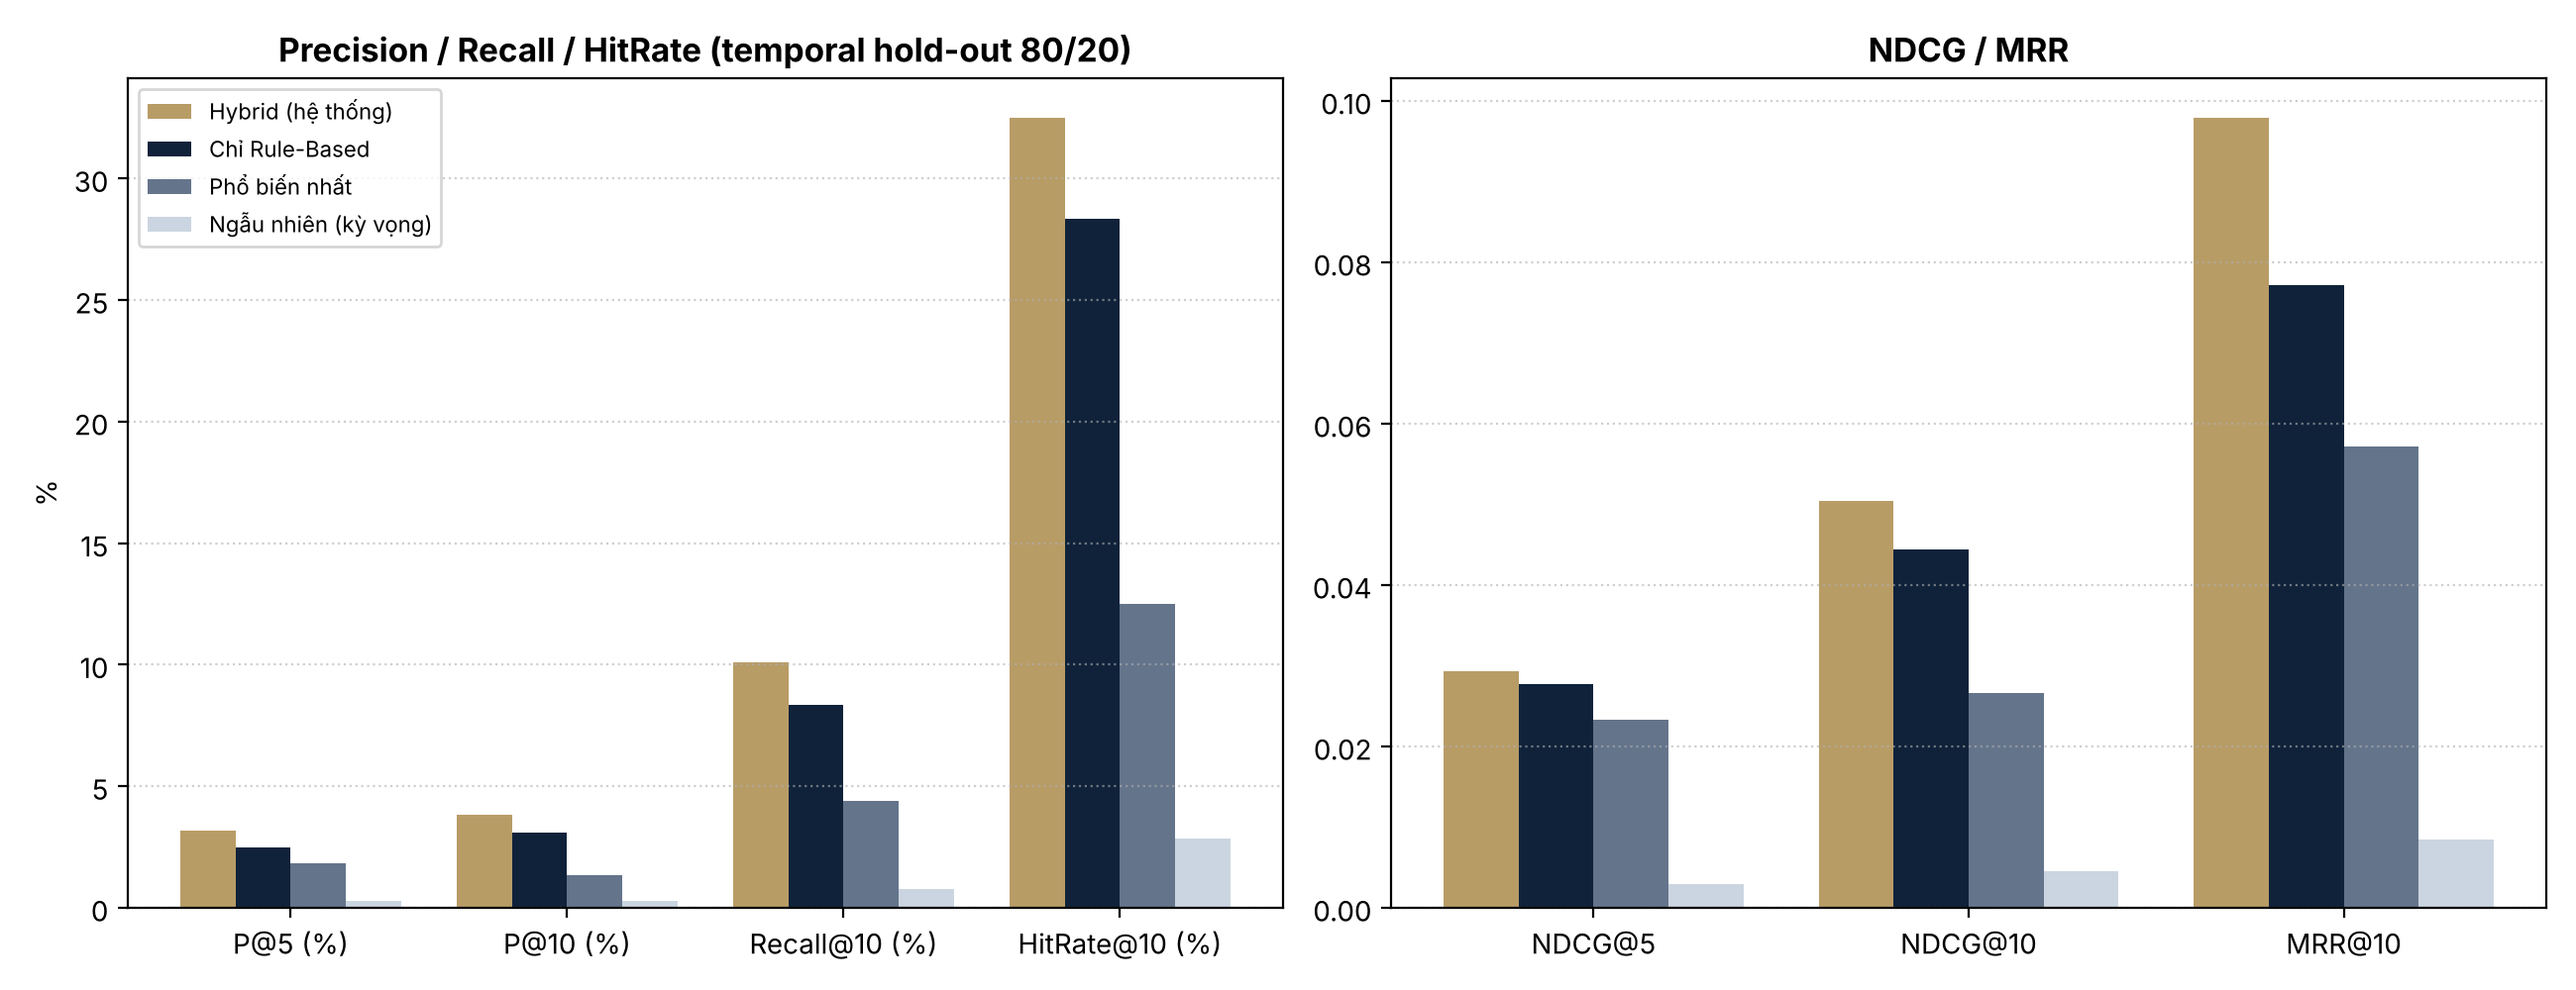
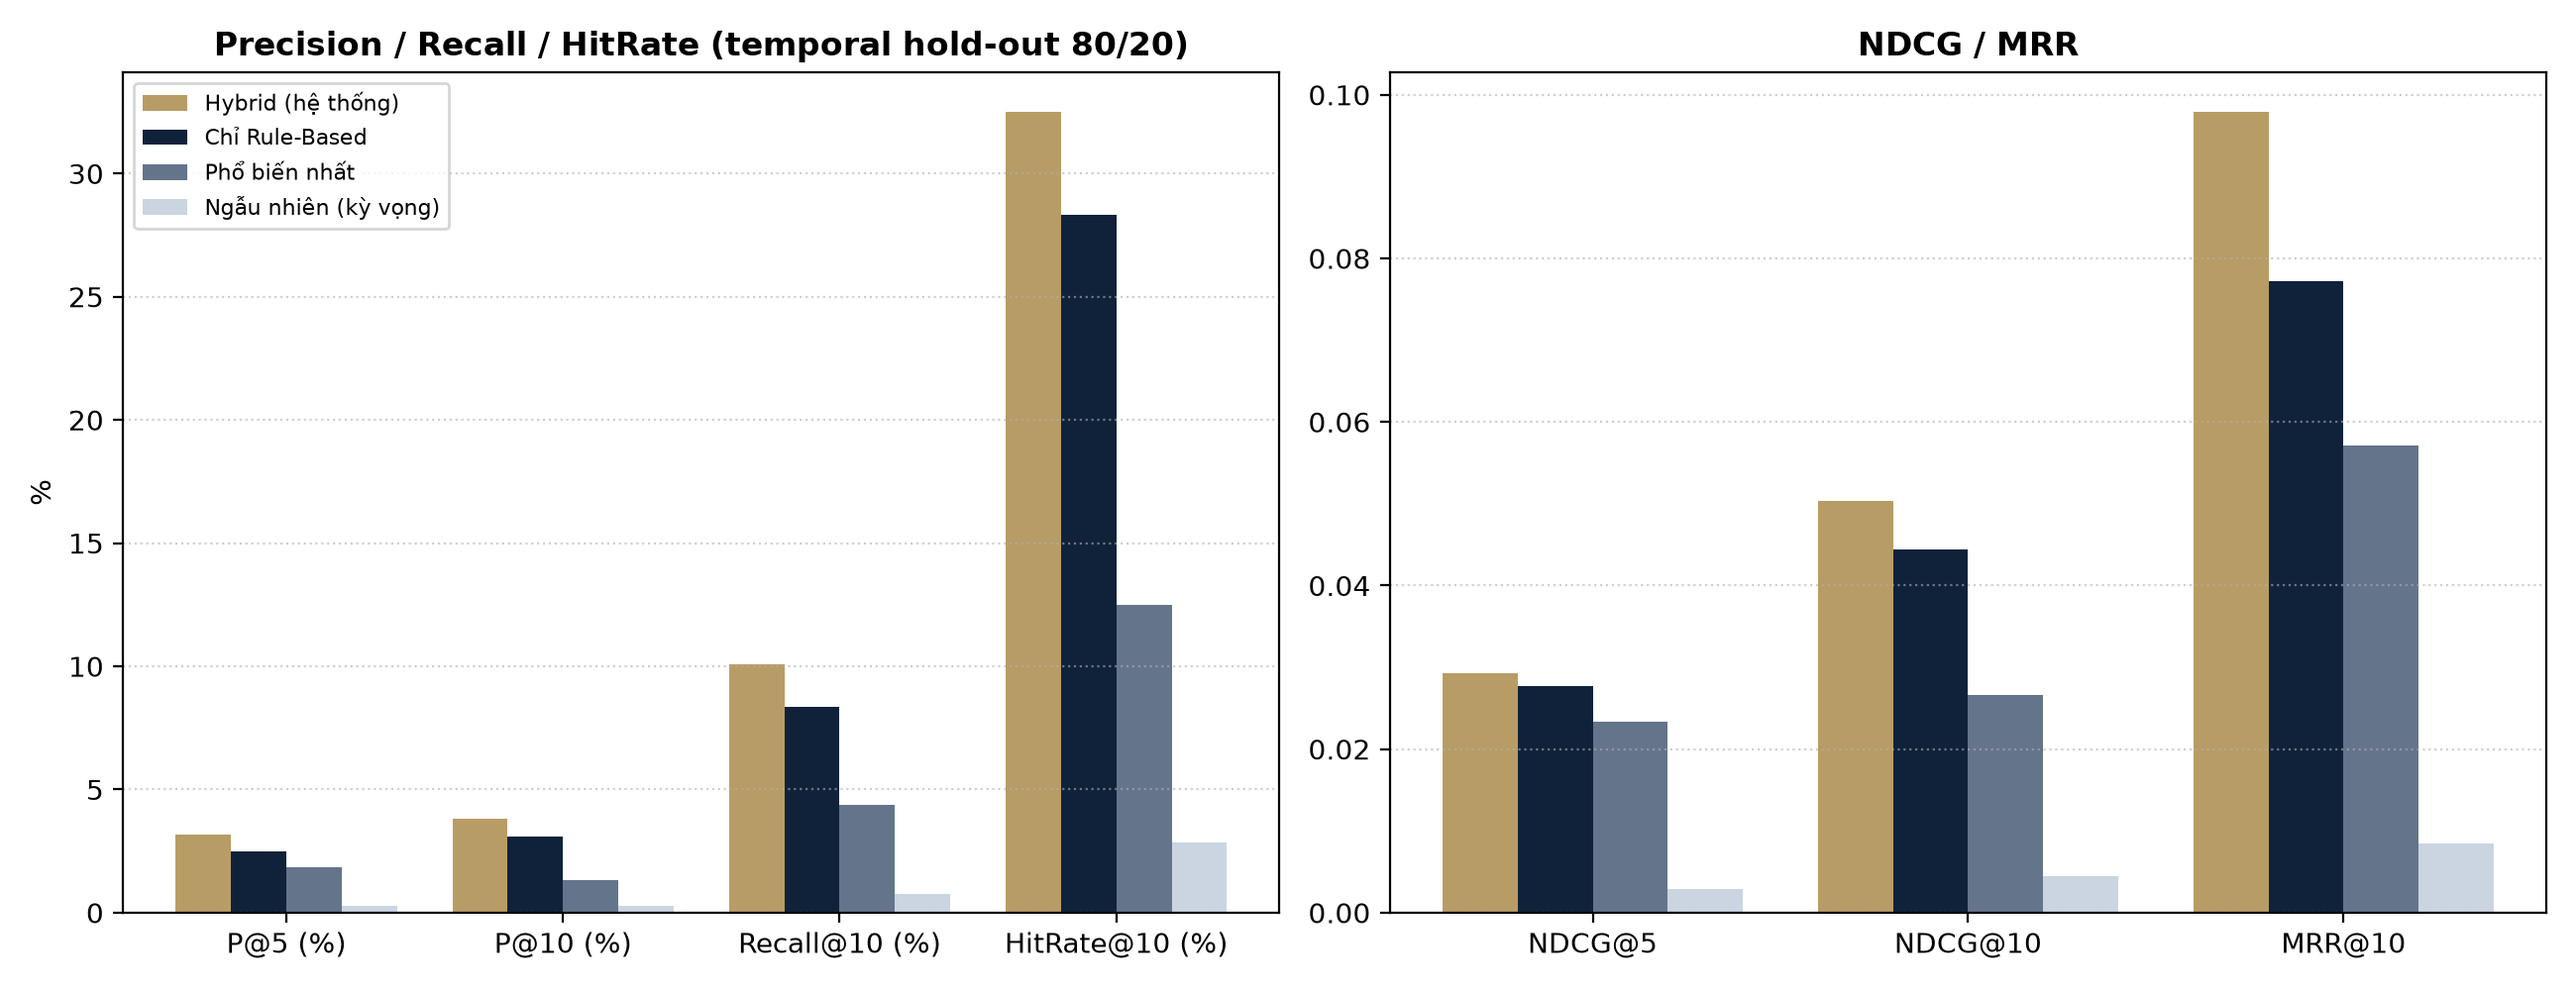
test(recommender): tách IP từng khách trong bài đo tương tranh, cập nhật biểu đồ đánh giá

diff --git a/recommender/test_concurrency.py b/recommender/test_concurrency.py
@@ -9,7 +9,7 @@ if hasattr(sys.stdout, 'reconfigure'):
 
 # Concurrency Test Configuration
 BASE_URL = 'http://localhost:3000/api/appointments'
-ROOM_ID = 8
+ROOM_ID = 1
 # Dynamic date ensures every benchmark run tests a brand-new slot
 DATE = f'2026-11-{(int(time.time()) % 25 + 1):02d}'
 TIME_SLOT = '10:30 - 11:30'
@@ -40,7 +40,13 @@ def book_slot(user_idx):
     try:
         with httpx.Client(timeout=30.0) as client:
             t0 = time.perf_counter()
-            res = client.post(BASE_URL, json=payload)
+            # Mỗi khách vãng lai có IP riêng để bài đo chỉ kiểm tra khóa khung giờ,
+            # không bị bộ giới hạn chống spam theo IP che khuất kết quả 409.
+            res = client.post(
+                BASE_URL,
+                json=payload,
+                headers={'x-forwarded-for': f'198.51.100.{user_idx}'},
+            )
             latency = (time.perf_counter() - t0) * 1000.0
             data = res.json()
             with lock:
@@ -79,7 +85,9 @@ conflict_count = sum(1 for r in results if r['status_code'] == 409)
 other_count = sum(1 for r in results if r['status_code'] not in (200, 409))
 
 for idx, r in enumerate(results[:5]):
-    status_icon = '✅ THÀNH CÔNG' if r['status_code'] == 200 else '🛑 BỊ CHẶN (409 CONFLICT)'
+    status_icon = ('✅ THÀNH CÔNG' if r['status_code'] == 200
+                   else '🛑 BỊ CHẶN (409 CONFLICT)' if r['status_code'] == 409
+                   else f'⚠ LỖI HTTP {r["status_code"]}')
     print(f'Luồng #{idx+1} ({r["user"]}): {status_icon} - {r["message"]} ({r["latency_ms"]} ms)')
 
 if len(results) > 5:
